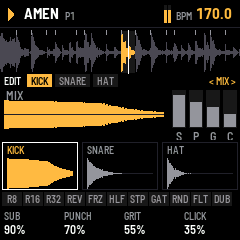
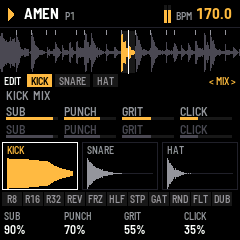
EDIT's kick laid out as the snare and hat; SEQ's knob values follow the knobs
- the kick's page: its part's four settings as bars (as the snare's and the
  hat's six), the four layers' levels under them (the one edited lit, amber
  with an effect); its shape stays in the three drums' strip
- fix: on SEQ, turning K1-K4 changed the step but not the values under the
  knobs (seq_turn redrew the strip only); a pattern picked or switched in at
  the loop's end redraws them too

Claude-Session: https://claude.ai/code/session_01YWuRNut7ZhYpQRsULF21Ph

Changed region(s): [[0.0, 0.3792, 0.9917, 0.5833]]

diff --git a/app/ui/kick.c b/app/ui/kick.c
@@ -175,9 +175,6 @@ static void kick_knob_turn(int i, int32_t d)
 
 /* the KICK page's strip: the kick's shape and its layers' levels; then its 16 steps (the one playing outlined),
  * what the page edits and where the kick goes */
-#define KS_W 160u                        /* the shape's columns: its first 600 ms */
-static uint8_t kick_px[KS_W];
-static uint32_t kick_px_sig = 1u;
 
 /* EDIT's lower strip: the three drums side by side, each its own waveform (one hit, worked out again when its sound
  * changes), the one edited outlined, lit on its hits */
@@ -227,35 +224,50 @@ static void draw_drums(const brk_status_t *st)
     cv_blit(0, 140);
 }
 
+/* the kick's page (EDIT): as the snare's and the hat's: its part's four settings as bars (lit), and under them the
+ * four layers' levels (the one the part edits lit, amber with an effect on); then the three drums */
+static float kick_knob_f(int i)          /* the part's knob i, 0..1 (as its bar) */
+{
+    const kick_t *k = &set.kick;
+    const kick_layer_t *l = &k->l[ui.klayer % KICK_LAYERS];
+    switch (ui.kpage) {
+    case KP_MIX:
+        return k->l[i].level;
+    case KP_LAYER:
+        return i == 0 ? l->level : i == 1 ? l->pitch : i == 2 ? l->decay : l->tone;
+    case KP_FX:
+        return i == 0 ? (float)l->fx / (float)(KICK_FX - 1) : i == 1 ? l->fa : i == 2 ? l->fb : l->wet;
+    case KP_MACRO:
+        return i == 3 ? k->intensity : kick_macro_value(i);
+    default:
+        return i == 0 ? k->volume : 0.0f;
+    }
+}
 static void draw_kick(const brk_status_t *st)
 {
     const kick_t *k = &set.kick;
-    uint32_t i, sig = 2166136261u;
-    char t[40];
-    for (i = 0; i < sizeof *k; i++)      /* the sound's bytes: changed? */
-        sig = (sig ^ ((const uint8_t *)k)[i]) * 16777619u;
-    if (sig != kick_px_sig) {
-        kick_px_sig = sig;
-        kick_shape(k, kick_px, KS_W, 600u, 36u);
-    }
+    uint32_t i;
+    char t[24];
     cv_begin(240, 52, C_BLACK);
-    for (i = 0; i < KS_W; i++)           /* the shape, mirrored about its centre line */
-        if (kick_px[i])
-            cv_rect(4 + (int32_t)i, 26 - kick_px[i] / 2, 1, kick_px[i] | 1, k->volume > 0.0f ? C_HI : C_DIM);
-    cv_rect(4, 26, KS_W, 1, C_LINE);
     t[0] = 0;
+    text_cat(t, "KICK  ");
     kick_part_name(kick_part(), t);
     cv_text(6, 0, &FONT_XS, t, C_GRAY);
-    for (i = 0; i < KICK_LAYERS; i++) {  /* the layers' levels, the one edited outlined */
-        int32_t x = 172 + (int32_t)i * 17, h = (int32_t)(k->l[i].level * 36.0f + 0.5f);
-        int sel = i == ui.klayer && (ui.kpage == KP_LAYER || ui.kpage == KP_FX);
-        cv_rect(x, 2, 14, 38, sel ? C_WHITE : C_BLOCK);
-        cv_rect(x + 1, 3, 12, 36, C_BLOCK);
-        if (h)
-            cv_rect(x + 1, 39 - h, 12, h, sel ? C_HI : k->l[i].fx ? C_AMB : C_GRAY);
-        t[0] = KICK_LAYER_NAME[i][0];
-        t[1] = 0;
-        cv_text(x + 4, 41, &FONT_XS, t, sel ? C_HI : C_GRAY);
+    for (i = 0; i < 4u; i++) {           /* the part's four settings */
+        int32_t x = 6 + (int32_t)i * 58;
+        const char *n = kick_knob_name((int)i);
+        if (!n[0])
+            continue;
+        cv_text(x, 16, &FONT_XS, n, C_GRAY);
+        cv_rect(x, 29, 52, 3, C_BLOCK);
+        cv_rect(x, 29, (int32_t)(52.0f * brk_clampf(kick_knob_f((int)i), 0.0f, 1.0f) + 0.5f), 3, C_HI);
+    }
+    for (i = 0; i < KICK_LAYERS; i++) {  /* the layers' levels */
+        int32_t x = 6 + (int32_t)i * 58;
+        int lit = i == ui.klayer && (ui.kpage == KP_LAYER || ui.kpage == KP_FX);   /* (MIX: the row above is them) */
+        cv_text(x, 34, &FONT_XS, KICK_LAYER_NAME[i], lit ? C_GRAY : C_DIM);
+        cv_rect(x, 47, 52, 3, C_BLOCK);
+        cv_rect(x, 47, (int32_t)(52.0f * k->l[i].level + 0.5f), 3, lit ? C_HI : k->l[i].fx ? C_AMB : C_DIM);
     }
     cv_blit(0, 88);
     draw_drums(st);

diff --git a/app/ui/seq.c b/app/ui/seq.c
@@ -225,7 +225,7 @@ static void seq_turn(int i, int32_t d)
     seq_value(i, t);
     say_int("STEP", (int32_t)ui.seq_step + 1, "");
     app_say(ui.msg[0], t);
-    ui.redraw |= RG_BLOCKS;
+    ui.redraw |= RG_BLOCKS | RG_FOOT;    /* (the knobs' values too: they show the step) */
 }
 static void pattern_pick(int32_t d)      /* PRESETS: the next or previous pattern (playing: at the loop's end) */
 {
@@ -239,7 +239,7 @@ static void pattern_pick(int32_t d)      /* PRESETS: the next or previous patter
         set_dirty = 1u;
     }
     say_int(playing_now() ? "NEXT PATTERN" : "PATTERN", want + 1, "");
-    ui.redraw |= RG_HEAD | RG_BLOCKS;
+    ui.redraw |= RG_HEAD | RG_BLOCKS | RG_FOOT;
 }
 static uint32_t keys_lit(const brk_status_t *st)   /* the white keys' lights on a lane's page (TAP: the beat) */
 {

diff --git a/app/ui/main.c b/app/ui/main.c
@@ -770,7 +770,7 @@ void app_frame(void)
         pat_next = -1;
         pat_apply();
         set_dirty = 1u;
-        ui.redraw |= RG_BLOCKS;
+        ui.redraw |= RG_BLOCKS | RG_FOOT;
     }
     if (st.step != ui.last_step || st.slice != ui.last_slice) {   /* the playhead moved */
         ui.last_step = st.step;

diff --git a/app/docs/MANUAL.md b/app/docs/MANUAL.md
@@ -314,7 +314,7 @@ A synthesised kick for gabber, hardcore and techno. ALGORITHM turns through its 
 PUNCH FX → GRIT → GRIT FX → CLICK → CLICK FX → MACRO → OUT (each layer's part is its LAYER knobs, its FX part its
 LAYER FX knobs).
 
-![EDIT on the kick: the kick's shape, the layers' levels, the three drums below](img/screen-kick.png "The kick on EDIT")
+![EDIT on the kick: its part's settings as bars, the layers' levels, the three drums below](img/screen-kick.png "The kick on EDIT")
 
 The kick is four layers summed and pushed into a clipper:
 
@@ -340,8 +340,9 @@ The kick is four layers summed and pushed into a clipper:
 | OUT | Volume | | | |
 
 **INTENSITY** is the drive into the clipper: low is a clean, round kick; past half the clip turns hard, the tail
-flattens into the long, distorted gabber kick. The strip shows the kick's shape (its first 600 ms), the layers'
-levels (the layer edited outlined, amber with an effect on). Its steps: SEQ's KICK lane (empty to start).
+flattens into the long, distorted gabber kick. The page is laid out as the snare's and the hat's: the part's four
+settings as bars, under them the four layers' levels (the layer edited lit, amber with an effect on); the kick's
+shape is its box in the strip below. Its steps: SEQ's KICK lane (empty to start).
 
 ### The snare and the hat
 
